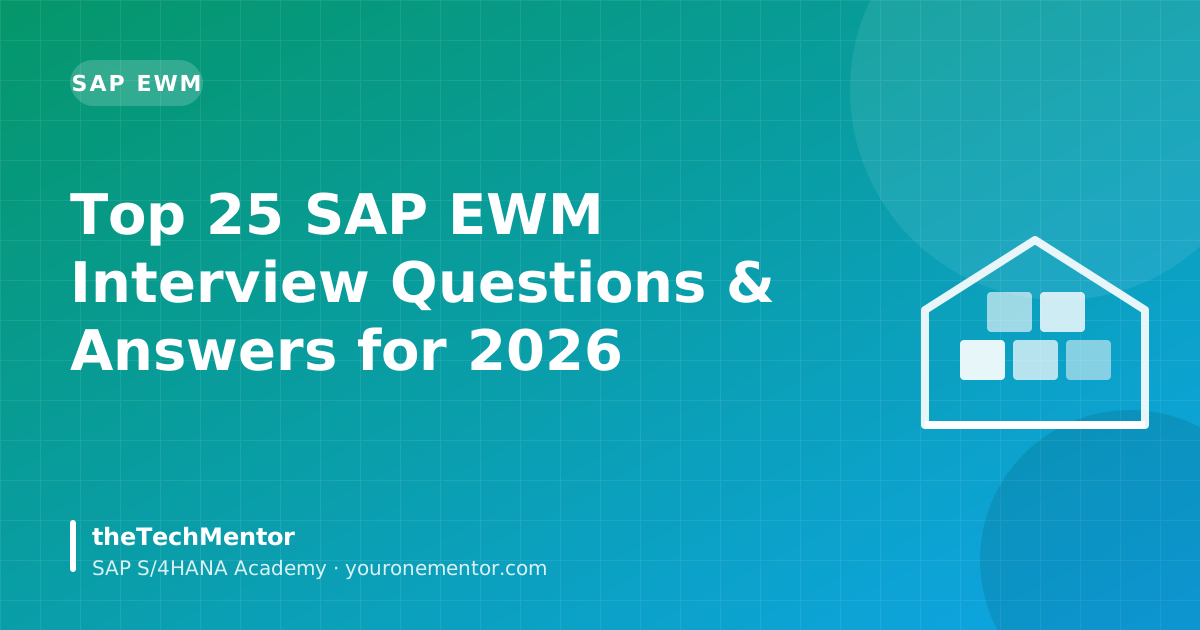
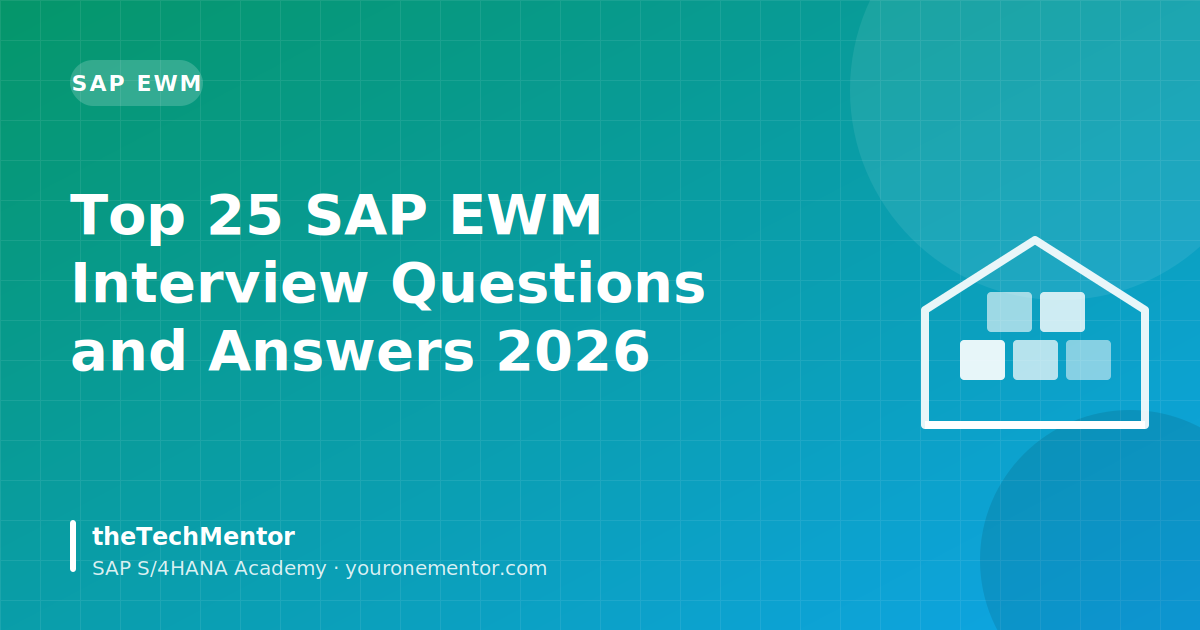
feat(blog): automated article (refresh)

diff --git a/blog/top-25-sap-ewm-interview-questions-2026.html b/blog/top-25-sap-ewm-interview-questions-2026.html
@@ -3,95 +3,95 @@
 <head>
   <meta charset="UTF-8" />
   <meta name="viewport" content="width=device-width, initial-scale=1.0" />
-  <title>Top 25 SAP EWM Interview Questions &amp; Answers for 2026</title>
-  <meta name="description" content="Prepare for senior SAP EWM consultant interviews with 25 model questions on Storage Types, Wave Management, POSC, and LOSC." />
+  <title>Top 25 SAP EWM Interview Questions and Answers 2026</title>
+  <meta name="description" content="Top 25 SAP EWM interview questions with model answers on storage types, POSC/LOSC, waves, queues and troubleshooting. Prepare for consultant rounds." />
   <link rel="canonical" href="https://youronementor.com/blog/top-25-sap-ewm-interview-questions-2026.html" />
-  <meta property="og:title" content="Top 25 SAP EWM Interview Questions & Answers for 2026" />
-  <meta property="og:description" content="Prepare for senior SAP EWM consultant interviews with 25 model questions on Storage Types, Wave Management, POSC, and LOSC." />
+  <meta name="robots" content="index,follow,max-image-preview:large" />
+  <meta property="og:type" content="article" />
+  <meta property="og:url" content="https://youronementor.com/blog/top-25-sap-ewm-interview-questions-2026.html" />
+  <meta property="og:title" content="Top 25 SAP EWM Interview Questions &amp; Answers for 2026 (With Model Answers)" />
+  <meta property="og:description" content="Top 25 SAP EWM interview questions with model answers on storage types, POSC/LOSC, waves, queues and troubleshooting. Prepare for consultant rounds." />
   <meta property="og:image" content="https://youronementor.com/blog/covers/top-25-sap-ewm-interview-questions-2026.png" />
+  <meta property="og:site_name" content="theTechMentor" />
+  <meta name="twitter:card" content="summary_large_image" />
+  <meta property="article:published_time" content="2026-11-08" />
+  <meta property="article:modified_time" content="2026-11-08" />
   <link rel="preconnect" href="https://fonts.googleapis.com" />
   <link rel="preconnect" href="https://fonts.gstatic.com" crossorigin />
-  <link rel="stylesheet" href="https://fonts.googleapis.com/css2?family=Inter:wght@400;500;600;700;800&family=Space+Grotesk:wght@500;600;700&display=swap" />
-  <link rel="stylesheet" href="../styles.css" />
-  <link rel="stylesheet" href="blog.css" />
-  <script src="https://checkout.razorpay.com/v1/checkout.js"></script>
-  <script type="application/ld+json">[{"@context": "https://schema.org", "@type": "Article", "headline": "Top 25 SAP EWM Interview Questions & Answers for 2026", "description": "Prepare for senior SAP EWM consultant interviews with 25 model questions on Storage Types, Wave Management, POSC, and LOSC.", "image": "https://youronementor.com/images/og-cover.png", "author": {"@type": "Person", "name": "Anshuman Behuria", "url": "https://www.linkedin.com/in/anshuman-behuria-946860130"}, "publisher": {"@type": "Organization", "name": "theTechMentor", "url": "https://youronementor.com"}, "mainEntityOfPage": "https://youronementor.com/blog/top-25-sap-ewm-interview-questions-2026.html"}, {"@context": "https://schema.org", "@type": "BreadcrumbList", "itemListElement": [{"@type": "ListItem", "position": 1, "name": "Home", "item": "https://youronementor.com/"}, {"@type": "ListItem", "position": 2, "name": "Blog", "item": "https://youronementor.com/blog/"}, {"@type": "ListItem", "position": 3, "name": "Top 25 SAP EWM Interview Questions & Answers for 2026", "item": "https://youronementor.com/blog/top-25-sap-ewm-interview-questions-2026.html"}]}]</script>
-  <meta name="robots" content="noindex,follow" />
-  <link rel="stylesheet" href="ai-article.css" />
-  <link rel="stylesheet" href="../theme-2030.css?v=1" />
+  <link rel="stylesheet" href="https://fonts.googleapis.com/css2?family=Inter:wght@400;500;600;700&family=Plus+Jakarta+Sans:wght@600;700;800&display=swap" />
+  <link rel="icon" href="../images/logo-mark.svg" type="image/svg+xml" />
+  <link rel="stylesheet" href="../site.css?v=1" />
+  <link rel="stylesheet" href="ai-article.css?v=3" />
+  <script type="application/ld+json">[{"@context": "https://schema.org", "@type": "Article", "headline": "Top 25 SAP EWM Interview Questions & Answers for 2026 (With Model Answers)", "description": "Top 25 SAP EWM interview questions with model answers on storage types, POSC/LOSC, waves, queues and troubleshooting. Prepare for consultant rounds.", "image": "https://youronementor.com/blog/covers/top-25-sap-ewm-interview-questions-2026.png", "datePublished": "2026-11-08", "dateModified": "2026-11-08", "author": {"@type": "Person", "name": "Anshuman Behuria", "url": "https://www.linkedin.com/in/anshuman-behuria-946860130"}, "publisher": {"@type": "Organization", "name": "theTechMentor", "url": "https://youronementor.com"}, "mainEntityOfPage": "https://youronementor.com/blog/top-25-sap-ewm-interview-questions-2026.html", "wordCount": 2049}, {"@context": "https://schema.org", "@type": "BreadcrumbList", "itemListElement": [{"@type": "ListItem", "position": 1, "name": "Home", "item": "https://youronementor.com/"}, {"@type": "ListItem", "position": 2, "name": "Blog", "item": "https://youronementor.com/blog/"}, {"@type": "ListItem", "position": 3, "name": "Top 25 SAP EWM Interview Questions & Answers for 2026 (With Model Answers)", "item": "https://youronementor.com/blog/top-25-sap-ewm-interview-questions-2026.html"}]}, {"@context": "https://schema.org", "@type": "FAQPage", "mainEntity": [{"@type": "Question", "name": "Is SAP EWM hard to crack in interviews?", "acceptedAnswer": {"@type": "Answer", "text": "It is demanding because interviewers test scenarios, not definitions. If you can explain the inbound and outbound document flow and troubleshoot a missing task, you are ahead of most candidates."}}, {"@type": "Question", "name": "Do I need SAP MM knowledge before EWM?", "acceptedAnswer": {"@type": "Answer", "text": "Yes, a working knowledge of material master, goods movements and delivery processing helps a lot, since EWM integrates with them. See the MM roadmap article for a structured start."}}, {"@type": "Question", "name": "Which T-codes should I memorise for EWM interviews?", "acceptedAnswer": {"@type": "Answer", "text": "Focus on /SCWM/MON (monitor), /SCWM/WAVE, /SCWM/MAT1, /SCWM/LS01, /SCWM/RSRC and /SCWM/PRDI-style document displays you have actually used. Understanding purpose matters more than memorising."}}, {"@type": "Question", "name": "Is embedded EWM more common than decentralized in 2026?", "acceptedAnswer": {"@type": "Answer", "text": "For new S/4HANA projects, embedded EWM is the usual starting choice because of simpler landscape and licensing considerations. Decentralized is still used for specific high-volume or independence requirements."}}, {"@type": "Question", "name": "How long does it take to prepare for an EWM interview?", "acceptedAnswer": {"@type": "Answer", "text": "With prior SAP experience, a few weeks of focused hands-on practice. Freshers usually need a few months to build both the concepts and sandbox practice."}}]}]</script>
   <script src="../site-config.js"></script>
   <script src="../tracking.js"></script>
-  <link rel="icon" href="../images/logo-mark.svg" type="image/svg+xml" />
 </head>
-<body>
+<body class="ai-page" style="--accent:#059669;--accent2:#0ea5e9;--accent-soft:#d1fae5;">
   <div class="reading-progress" id="reading-progress-bar"></div>
-
   <header class="header">
-    <nav class="nav container">
-      <a href="../index.html" class="logo">
-        <img class="logo-img" src="../images/logo-mark.svg" width="32" height="32" alt="" />
-        <span class="logo-text">the<b>Tech</b>Mentor</span>
-      </a>
+    <nav class="nav wrap" aria-label="Main">
+      <a href="../index.html" class="brand" aria-label="theTechMentor home"><img src="../images/logo-mark.svg" alt="" width="36" height="36" /><span>the<b>Tech</b>Mentor</span></a>
+      <button class="nav-toggle" aria-label="Open menu" aria-expanded="false"><span></span><span></span><span></span></button>
       <ul class="nav-links">
         <li><a href="../index.html#courses">Courses</a></li>
         <li><a href="../index.html#paths">Career paths</a></li>
-        <li><a href="index.html" style="color:var(--blog-accent-light); font-weight:600;">Blog Hub</a></li>
-        <li><a href="../index.html#advisor">Free counselling</a></li>
-        <li><a href="../index.html#courses" class="btn btn-sm">Explore courses</a></li>
+        <li><a href="index.html">Blog</a></li>
+        <li><a href="../index.html#advisor" class="btn btn-ghost btn-sm">Free counselling</a></li>
+        <li><a href="../index.html#courses" class="btn btn-primary btn-sm">Explore courses</a></li>
       </ul>
     </nav>
   </header>
 
-  <main class="blog-article-wrap">
-    <div class="blog-breadcrumb">
+  <main class="blog-article-wrap ai-wrap">
+    <nav class="blog-breadcrumb" aria-label="Breadcrumb">
       <a href="../index.html">Home</a> &gt; <a href="index.html">Blog</a> &gt; <span>Interview prep</span>
-    </div>
+    </nav>
 
-    <header class="blog-header">
-      <span class="sp-badge sp-badge--teal" style="margin-bottom:1rem; display:inline-block;">Interview Prep 2026</span>
-      <h1 class="blog-title">Top 25 SAP EWM Interview Questions & Answers for 2026</h1>
-      
+    <header class="ai-hero">
+      <span class="ai-pill">SAP EWM INTERVIEW PREP</span>
+      <h1 class="blog-title">Top 25 SAP EWM Interview Questions &amp; Answers for 2026 (With Model Answers)</h1>
+      <p class="ai-dek">25 SAP EWM interview questions with model answers: warehouse structure, POSC vs LOSC, waves, queues, RF and real troubleshooting scenarios.</p>
       <div class="blog-meta">
         <div class="author-chip">
-          <img class="author-photo" src="../images/anshuman-behuria-96.jpg" alt="Anshuman Behuria" width="40" height="40" style="width:40px;height:40px;border-radius:50%;object-fit:cover" />
-          <div class="author-info">
-            <strong>Anshuman Behuria</strong>
-            <span>Lead SAP S/4HANA Trainer</span>
-          </div>
+          <img class="author-photo" src="../images/anshuman-behuria-96.jpg" alt="Anshuman Behuria" width="40" height="40" />
+          <div class="author-info"><strong>Anshuman Behuria</strong><span>Lead SAP Mentor · theTechMentor</span></div>
         </div>
-        <span>•</span>
-        <span>Aug 28, 2026</span>
-        <span>•</span>
-        <span>⏱ 15 min read</span>
+        <span>Updated <time datetime="2026-11-08">Nov 08, 2026</time></span>
       </div>
+      <img class="ai-cover" src="covers/top-25-sap-ewm-interview-questions-2026.svg" width="1200" height="630" alt="Top 25 SAP EWM Interview Questions &amp; Answers for 2026 (With Model Answers)" />
     </header>
 
-    <article class="article-content">
+    <article class="article-content ai-article">
+      <div class="glance"><div><span>Module</span><strong>SAP EWM</strong></div><div><span>Read time</span><strong>9 min</strong></div><div><span>Level</span><strong>Intermediate to Consultant</strong></div><div class="glance-codes"><span>T-codes covered</span><p><code>/SCWM/MAT1</code><code>/SCWM/ORDIM_O</code><code>/SCWM/ORDIM_C</code><code>/SCWM/LS01</code><code>/SCWM/LS10</code><code>/SCWM/LS02</code><code>/SCWM/LS11</code><code>MM01</code></p></div></div>
 
-      <!-- TARGET METADATA GRID -->
-      <div style="background: #080d14; border: 1px solid #1e293b; border-radius: 10px; padding: 1.5rem; margin-bottom: 2rem; display: grid; grid-template-columns: 1fr 1fr; gap: 1.25rem;">
-        <div style="border-left: 3px solid #0284c7; padding-left: 0.85rem;">
-          <span style="color: #94a3b8; font-size: 0.8rem; font-weight: 700; text-transform: uppercase; display: block;">Target Role:</span>
-          <strong style="color: #fff; font-size: 0.95rem;">SAP EWM Consultant / Senior Warehouse Analyst</strong>
-        </div>
-      </div>
+      <div class="ai-intro"><p>Most candidates don't fail SAP EWM interviews because they miss definitions. They fail because they can't connect the steps: how a delivery becomes a warehouse request, then a warehouse task, then a goods issue. Interviewers probe that chain relentlessly.</p><p>This guide gives you the <strong>top 25 SAP EWM interview questions</strong> with model answers, grouped by topic: architecture, warehouse structure, process and storage control, execution, and troubleshooting. The answers use transaction codes, tables and sample values, the way a working consultant would speak. Use them to shape your own answers rather than to memorise.</p></div>
 
-      <p style="font-size: 1.05rem; line-height: 1.75; color: #cbd5e1; margin-bottom: 2rem;">
-        Mastering S/4HANA supply chain architecture requires deep functional knowledge and practical configuration experience. This technical guide breaks down <strong>Top 25 SAP EWM Interview Questions & Answers for 2026</strong> with actionable step-by-step blueprints.
-      </p>
+      <div class="ai-box ai-takeaways"><div class="box-label">⚡ Key takeaways</div><ul><li>Always explain the chain: delivery, warehouse request, wave, warehouse order, warehouse task, confirmation.</li><li>Know POSC (process steps) versus LOSC (physical layout) and when to combine them.</li><li>Be ready to name real T-codes such as /SCWM/MON, /SCWM/WAVE, /SCWM/MAT1 and /SCWM/LS01.</li><li>Troubleshoot in a fixed order: master data, strategy, queue and resource, then integration.</li><li>State whether your example is embedded or decentralized EWM.</li></ul></div>
 
-      <h2 style="color: #fff; font-size: 1.5rem; font-weight: 700; margin: 2rem 0 1rem 0; padding-bottom: 0.5rem; border-bottom: 1px solid #1e293b;">1. Warehouse Structure, Storage Types, Bins, and Activity Areas</h2><p style="color: #cbd5e1; font-size: 1.05rem; line-height: 1.7;">Deep dive into key configuration parameters, best practices, and real-world project insights for Core Architecture.</p><h2 style="color: #fff; font-size: 1.5rem; font-weight: 700; margin: 2rem 0 1rem 0; padding-bottom: 0.5rem; border-bottom: 1px solid #1e293b;">2. Process-Oriented (POSC) vs Layout-Oriented (LOSC) Storage Control</h2><p style="color: #cbd5e1; font-size: 1.05rem; line-height: 1.7;">Deep dive into key configuration parameters, best practices, and real-world project insights for Process Control.</p><h2 style="color: #fff; font-size: 1.5rem; font-weight: 700; margin: 2rem 0 1rem 0; padding-bottom: 0.5rem; border-bottom: 1px solid #1e293b;">3. Wave Management, Picking Strategies, and Resource Management</h2><p style="color: #cbd5e1; font-size: 1.05rem; line-height: 1.7;">Deep dive into key configuration parameters, best practices, and real-world project insights for Execution Engine.</p><h2 style="color: #fff; font-size: 1.5rem; font-weight: 700; margin: 2rem 0 1rem 0; padding-bottom: 0.5rem; border-bottom: 1px solid #1e293b;">4. Real-World Troubleshooting Questions asked by Top MNC Intervewers</h2><p style="color: #cbd5e1; font-size: 1.05rem; line-height: 1.7;">Deep dive into key configuration parameters, best practices, and real-world project insights for Scenario Questions.</p>
+      <div class="flow"><div class="flow-label">Process at a glance</div><ol class="flow-steps"><li><span class="flow-n">1</span><strong>Delivery / Notification</strong><span>ERP delivery creates the EWM warehouse request.</span></li><li><span class="flow-n">2</span><strong>Wave creation: /SCWM/WAVE</strong><span>Items are grouped and released as a wave.</span></li><li><span class="flow-n">3</span><strong>Warehouse Order creation</strong><span>WOCR bundles warehouse tasks into work packages.</span></li><li><span class="flow-n">4</span><strong>Queue and resource assignment</strong><span>Resources pick up orders via RF.</span></li><li><span class="flow-n">5</span><strong>Confirmation</strong><span>Tasks are confirmed and stock moves between bins.</span></li><li><span class="flow-n">6</span><strong>Goods issue / receipt posting</strong><span>Posting updates stock and the ERP delivery.</span></li></ol></div>
 
-      <!-- TIP CALLOUT -->
-      <div style="background: #0c1929; border-left: 4px solid #0284c7; padding: 1.25rem; border-radius: 6px; margin: 1.75rem 0;">
-        <strong style="color: #38bdf8; font-size: 1.05rem; display: block; margin-bottom: 0.3rem;">💡 CONSULTANT BEST PRACTICE</strong>
-        <p style="color: #cbd5e1; font-size: 0.95rem; margin: 0;">
-          Always validate your configuration in a sandbox environment before transporting customizing requests to Quality/Production.
-        </p>
-      </div>
+      <nav class="ai-box ai-toc" aria-label="Contents"><div class="box-label">📑 In this guide</div><ol><li><a href="#sec-1"><span>01</span>How SAP EWM interviews are structured</a></li><li><a href="#sec-2"><span>02</span>Architecture and basics (Questions 1-5)</a></li><li><a href="#sec-3"><span>03</span>Warehouse structure and master data (Questions 6-10)</a></li><li><a href="#sec-4"><span>04</span>Process and storage control (Questions 11-15)</a></li><li><a href="#sec-5"><span>05</span>Execution: waves, queues and resources (Questions 16-20)</a></li><li><a href="#sec-6"><span>06</span>Scenario and troubleshooting questions (Questions 21-25)</a></li><li><a href="#sec-7"><span>07</span>Common mistakes candidates make</a></li><li><a href="#faqs"><span>?</span>Frequently asked questions</a></li></ol></nav>
 
-      <!-- LEAD OPT-IN -->
+      <h2 id="sec-1"><span class="h2-n">01</span>How SAP EWM interviews are structured</h2>
+<p>Expect three rounds. The first is a screening on basics: what EWM is, how it differs from WM, embedded versus decentralized. The second is a configuration deep-dive on storage types, activity areas, warehouse process types and strategies. The third is scenario-based: something broke, find the cause.</p><table><thead><tr><th>Round</th><th>What is tested</th><th>How to prepare</th></tr></thead><tbody><tr><td>Screening</td><td>Terminology, architecture, WM vs EWM</td><td>Draw the inbound and outbound document flow from memory</td></tr><tr><td>Configuration</td><td>Warehouse structure, process types, strategies</td><td>Know the SPRO path under <code>SCM Extended Warehouse Management</code> and the master data behind it</td></tr><tr><td>Scenario</td><td>Stuck queues, missing stock, wrong bin determination</td><td>Practise on an S/4HANA sandbox and break things deliberately</td></tr></tbody></table><aside class="tip">Answer every question in three parts: definition, how it is configured or used (with a T-code), and one project example. That structure alone separates you from most candidates.</aside>
+<h2 id="sec-2"><span class="h2-n">02</span>Architecture and basics (Questions 1-5)</h2>
+<h3>Q1. What is SAP EWM and how is it different from classic WM?</h3><p>EWM is the advanced warehouse application that handles inbound, outbound, internal movements, physical inventory, resource management, labour and yard processes. Classic WM (Warehouse Management in ERP) is essentially a bin-level stock tracker driven by transfer orders. EWM adds warehouse tasks, queues, wave picking, handling units as first-class objects, and flexible process and storage control.</p><h3>Q2. Embedded vs decentralized EWM?</h3><p>Embedded EWM runs inside the S/4HANA system on the same database, using the core interface (CIF-free, with direct integration). Decentralized EWM runs on a separate system connected to S/4HANA or ECC through the Core Interface and qRFC. Embedded is simpler and the common default for new S/4HANA projects; decentralized suits very high-volume or independent-release-cycle warehouses. See the <a href="s4hana-2026-embedded-ewm-vs-decentral-ewm-matrix.html">embedded vs decentral decision matrix</a> and the <a href="embedded-ewm-s4hana-setup-walkthrough.html">embedded EWM setup walkthrough</a>.</p><aside class="interview">A frequent follow-up: "What differs in master data?" In decentralized, you distribute material, plant and business partner data via CIF/BDoc; in embedded, you use the integration with business partner and product master directly, with warehouse-specific data in <code>/SCWM/MAT1</code>.</aside><h3>Q3. What are the basic inbound and outbound document types?</h3><p>Inbound: Inbound Delivery in ERP, which creates an Inbound Delivery Notification and then a Warehouse Request and Warehouse Task. Outbound: Outbound Delivery Order, then Warehouse Request, wave, Warehouse Order and Warehouse Task, then posting goods issue. Warehouse Orders group tasks for execution by a worker.</p><h3>Q4. What is a Warehouse Task vs a Warehouse Order?</h3><p>A Warehouse Task (WT) is the smallest move instruction: product, quantity, source bin, destination bin. A Warehouse Order (WO) bundles multiple WTs into a work package for one resource or worker, built using Warehouse Order Creation Rules (WOCR). Tables: <code>/SCWM/ORDIM_O</code> (open WTs), <code>/SCWM/ORDIM_C</code> (confirmed WTs).</p><h3>Q5. What is a Handling Unit and why is it central?</h3><p>A Handling Unit (HU) is a physical unit (pallet, carton) with a unique identifier and packaging material. In EWM, stock is usually managed at HU level, and EWM can use HU-managed or non-HU bins depending on storage type settings. Many processes, including pick-HU and storage control, depend on HU data.
+<h2 id="sec-3"><span class="h2-n">03</span>Warehouse structure and master data (Questions 6-10)</h2>
+<h3>Q6. Explain the EWM warehouse structure.</h3><p>Hierarchy: Warehouse Number, Storage Type, Storage Section, Storage Bin. Separately, bins are grouped into Activity Areas for picking, putaway, inventory and labour. Each storage type has a role (high rack, pick area, staging area, work centre).</p><h3>Q7. How do you create storage bins?</h3><p>Use <code>/SCWM/LS01</code> for single bins and <code>/SCWM/LS10</code> to maintain them. Mass creation: <code>/SCWM/LS01</code> with bin structure, or <code>/SCWM/LS02</code> to change. Bin type and section drive capacity checks.</p><h3>Q8. What is an Activity Area and why use it?</h3><p>Activity Areas group bins for a specific activity so that the system can sort tasks and define picking paths. Define them in SPRO under <code>Extended Warehouse Management &gt; Master Data &gt; Activity Area &gt; Define Activity Area</code>, then assign bins with <code>/SCWM/LS11</code> or via bin maintenance. For labour, they feed work sequences and sort criteria.</p><h3>Q9. Where is warehouse product master maintained?</h3><p>Use <code>/SCWM/MAT1</code>. It holds warehouse-specific data such as putaway control indicator, storage type search sequence, unit of measure, and capacity data. The product comes from the S/4HANA material master (<code>MM01</code>).</p><aside class="warning">If a product is not created in the warehouse view, putaway fails with an error that the product is not maintained for the warehouse. Always check the warehouse data first.</aside><h3>Q10. What are the main bin determination strategies?</h3><p>Putaway strategies include fixed bin, open storage, addition to existing stock, and bulk storage. Picking can use FIFO, LIFO, partial quantity, FEFO and stock removal rules. Strategies are set in the storage type and condition-based determination uses Condition Records via <code>/SCWM/PUTSTRAT</code> style configuration. Slotting is covered in <a href="sap-ewm-slotting-rearrangement-optimization.html">this slotting and rearrangement guide</a>.
+<h2 id="sec-4"><span class="h2-n">04</span>Process and storage control (Questions 11-15)</h2>
+<h3>Q11. What is Warehouse Process Type (WPT)?</h3><p>The WPT defines how a type of movement behaves: whether it creates a confirmation, whether it requires a pick-HU, which storage type is the default, and which activity it represents. It is determined in the warehouse request via Warehouse Process Type determination, based on document type, item type and other criteria.</p><h3>Q12. POSC vs LOSC: what is the difference?</h3><p>Process-oriented Storage Control (POSC) models a whole process, such as goods receipt with unpacking, quality inspection and putaway, as a sequence of steps in a Storage Process. Layout-oriented Storage Control (LOSC) models the physical layout, such as moving from receiving area via a conveyor to a high rack, as predefined routes between storage types. POSC is external, process-driven; LOSC is internal, layout-driven. They can be combined. Full blueprint: <a href="sap-ewm-posc-losc-storage-control-deep-dive.html">POSC vs LOSC storage control deep dive</a>.</p><table><thead><tr><th>Aspect</th><th>POSC</th><th>LOSC</th></tr></thead><tbody><tr><td>Driver</td><td>Business process steps</td><td>Physical layout / routing</td></tr><tr><td>Configuration</td><td>Storage Process, determined by WPT</td><td>Layout-oriented storage control indicator and intermediate storage types</td></tr><tr><td>Typical use</td><td>Unpack, QC, value-added services, putaway</td><td>Conveyor, pick point, ID point, lift</td></tr><tr><td>Determined by</td><td>Process-oriented indicator on WPT</td><td>Warehouse storage control setting per storage type pair</td></tr></tbody></table><aside class="interview">Interviewers love: "Customer wants QC after unloading and then a pallet moved through an ID point to AS/RS. Which do you use?" Answer: POSC for the QC step, LOSC for the ID-point-to-AS/RS route, combined.</aside><h3>Q13. What are Pick Points and ID Points?</h3><p>A Pick Point is a staging location where a picker or a conveyor delivers goods before the next step. An ID Point is where the HU is identified (scanned) before a putaway. Both are modelled through storage control and bins at the intermediate location.</p><h3>Q14. What is Putaway Control Indicator vs Storage Type Search Sequence?</h3><p>The Putaway Control Indicator (set on the product) selects the storage type search sequence, which lists storage types in the order EWM tries to find a destination bin. Both are in the product master and configuration under <code>Goods Receipt Process &gt; Strategies</code>.</p><h3>Q15. How does EWM handle quality inspection in the warehouse?</h3><p>EWM supports Quality Inspection Engine integration through the Quality Management system: an inspection document is created on goods receipt, stock sits in a Q-type stock category or a QC storage type, and usage decision triggers a posting change and the next putaway step. Details vary by release and by embedded vs decentral setups.
+<h2 id="sec-5"><span class="h2-n">05</span>Execution: waves, queues and resources (Questions 16-20)</h2>
+<h3>Q16. What is wave management?</h3><p>A wave groups warehouse request items for release as a single batch of picking work. You create and release waves via <code>/SCWM/WAVE</code>. Waves are defined through Wave Templates, which set wave category, capacity, cut-off times and release rules. Deep dives: <a href="ewm-wave-management-explained.html">EWM wave management explained</a> and <a href="sap-ewm-wave-management-wocr-configuration.html">wave and WOCR configuration</a>.</p><h3>Q17. What is a Warehouse Order Creation Rule (WOCR)?</h3><p>WOCR defines how warehouse tasks are grouped into warehouse orders. Criteria include maximum number of items, maximum weight or volume, activity area, queue, and sort. The WOCR is assigned through the Warehouse Order Creation Rule determination with filter conditions.</p><h3>Q18. What is a queue and how is it used?</h3><p>A queue is a logical group of warehouse orders that a resource is allowed to process. Queue determination uses storage type, activity area and activity. Resources log on to queues in RF or via <code>/SCWM/RSRC</code>, and the system assigns WOs only from those queues.</p><aside class="tip">When a task sits unassigned, check the queue first. A mismatch between queue and resource-group assignment is the number-one reason a worker sees nothing on their RF device.</aside><h3>Q19. What is Resource Management?</h3><p>Resource Management lets you maintain resource types (forklift, picker), resource groups and resources, and the queue types they can handle. It supports RF sign-on, work-order assignment, and monitoring of workload.</p><h3>Q20. What is the Warehouse Monitor?</h3><p><code>/SCWM/MON</code> is the central reporting and analysis tool in EWM. Nodes include Stock and Bin, Documents, Resources, Queues, Work Orders and Exceptions. You use it for troubleshooting and to display documents, stock by HU, and stuck processes.
+<h2 id="sec-6"><span class="h2-n">06</span>Scenario and troubleshooting questions (Questions 21-25)</h2>
+<h3>Q21. Goods receipt is posted but putaway task was not created. Why?</h3><p>Check these in order: (1) Is the delivery in a status that triggers automatic WT creation? (2) Does the WPT have the automatic creation indicator? (3) Is there a valid storage type search sequence on the product? (4) Is the product maintained for the warehouse in <code>/SCWM/MAT1</code>? Use the application log with <code>/SCWM/ERP_LOG</code> or <code>SLG1</code> to read the message.</p><h3>Q22. System cannot determine a destination bin. What do you check?</h3><p>Check the putaway control indicator, the storage type search sequence, whether the storage type is active, whether bins are blocked for putaway, and capacity checks on the bin type.</p><table><thead><tr><th>Symptom</th><th>Likely cause</th><th>Where to check</th></tr></thead><tbody><tr><td>No destination bin</td><td>Search sequence missing or bins blocked</td><td>Product master, <code>/SCWM/LS01</code> blocking indicators</td></tr><tr><td>Task not assigned to worker</td><td>Queue or resource mismatch</td><td><code>/SCWM/RSRC</code>, queue config</td></tr><tr><td>Wave does not release</td><td>Wave template criteria not met</td><td><code>/SCWM/WAVE</code>, template</td></tr><tr><td>Stock mismatch ERP vs EWM</td><td>Posting change or inbound/outbound not complete</td><td><code>/SCWM/MON</code>, reconciliation reports</td></tr><tr><td>Delivery not in EWM</td><td>Distribution or integration error</td><td>Queues in <code>SMQ1</code>/<code>SMQ2</code> for decentralized, application log for embedded</td></tr></tbody></table><h3>Q23. Stock differs between ERP and EWM. How do you reconcile?</h3><p>In the S/4HANA embedded model, run the stock comparison report via the reconciliation transactions provided by SAP, and review open documents. Typical causes are incomplete postings, manual stock changes, or failures in goods movement posting. Resolve by completing or cancelling the open EWM document and re-posting.</p><aside class="warning">Never fix stock mismatch by directly changing database tables. Always use standard posting changes or physical inventory adjustments, and document the reason.</aside><h3>Q24. How do you handle a stuck inbound delivery?</h3><p>Open the delivery in the monitor, read the document status and log, correct the master data or configuration, and reprocess. If the issue is integration (decentralized), process the stuck qRFC queue after fixing the root cause.</p><h3>Q25. How would you design a pick process for a high-volume e-commerce warehouse?</h3><p>Use wave picking with wave templates by carrier cut-off, pick by order or by consolidation group, a pick point with LOSC if there is a conveyor, and WOCR limits tuned to cart capacity. Add slotting to place fast-movers in golden zone bins, and use RF for execution. Also mention AI-driven support in newer releases, see <a href="autonomous-ai-sap-mm-ewm-2026-guide.html">autonomous AI in MM &amp; EWM</a>.</p>
+<h2 id="sec-7"><span class="h2-n">07</span>Common mistakes candidates make</h2>
+<ul><li><strong>Confusing WM and EWM terms.</strong> Saying "transfer order" instead of warehouse task signals classic-WM experience only.</li><li><strong>Quoting T-codes from memory incorrectly.</strong> If unsure, say you would find it in the SAP Easy Access menu under Extended Warehouse Management rather than guessing.</li><li><strong>Ignoring embedded vs decentral differences.</strong> Always state which landscape your example comes from.</li><li><strong>Skipping the why.</strong> Explaining that WOCR exists to control worker workload is worth more than reciting its fields.</li><li><strong>No hands-on story.</strong> Even a sandbox exercise counts when described with specific values, such as a bin type with a 1,000 kg capacity.</li></ul><aside class="note">Release details differ. Check the latest changes in <a href="sap-s4hana-2025-release-mm-ewm-changes.html">the S/4HANA 2025 release notes summary</a> before claiming a feature is available, and know your system's release.</aside><p>If you are deciding between tracks, read <a href="sap-mm-vs-ewm-career-guide.html">SAP MM vs EWM</a>; for the procurement side of interviews see <a href="top-30-sap-mm-interview-questions-2026.html">Top 30 SAP MM interview questions</a>.</p>
+
+
+      
+
       <div class="ai-optin" id="lead-optin">
+        <div class="optin-icon">🎁</div>
         <strong>Free: SAP MM &amp; EWM video course + interview kit</strong>
         <p>Get the 40+ lesson playlist, the most-asked interview questions and our 90-day roadmap on WhatsApp.</p>
         <form class="ttm-optin-form" data-source="blog:top-25-sap-ewm-interview-questions-2026">
@@ -103,22 +103,36 @@
         <div class="ttm-optin-done" hidden></div>
       </div>
 
-      <!-- COURSE CTA CARD -->
-      <div class="blog-course-cta">
-        <span class="tier-badge" style="background:#f59e0b; color:#000; font-weight:700; padding:0.2rem 0.6rem; border-radius:4px; font-size:0.75rem; text-transform:uppercase;">Accelerate Your Career</span>
-        <h3>Master SAP MM &amp; EWM S/4HANA Live with Anshuman Behuria</h3>
-        <p>Get 24/7 server access, real project blueprints, and 1-on-1 interview preparation.</p>
+      <h2 id="faqs"><span class="h2-n">?</span>Frequently asked questions</h2>
+      <details class="ai-faq"><summary>Is SAP EWM hard to crack in interviews?</summary><p>It is demanding because interviewers test scenarios, not definitions. If you can explain the inbound and outbound document flow and troubleshoot a missing task, you are ahead of most candidates.</p></details><details class="ai-faq"><summary>Do I need SAP MM knowledge before EWM?</summary><p>Yes, a working knowledge of material master, goods movements and delivery processing helps a lot, since EWM integrates with them. See the MM roadmap article for a structured start.</p></details><details class="ai-faq"><summary>Which T-codes should I memorise for EWM interviews?</summary><p>Focus on /SCWM/MON (monitor), /SCWM/WAVE, /SCWM/MAT1, /SCWM/LS01, /SCWM/RSRC and /SCWM/PRDI-style document displays you have actually used. Understanding purpose matters more than memorising.</p></details><details class="ai-faq"><summary>Is embedded EWM more common than decentralized in 2026?</summary><p>For new S/4HANA projects, embedded EWM is the usual starting choice because of simpler landscape and licensing considerations. Decentralized is still used for specific high-volume or independence requirements.</p></details><details class="ai-faq"><summary>How long does it take to prepare for an EWM interview?</summary><p>With prior SAP experience, a few weeks of focused hands-on practice. Freshers usually need a few months to build both the concepts and sandbox practice.</p></details>
+
+      <div class="related"><div class="flow-label">Keep learning</div><div class="rel-grid"><a class="rel-card" href="top-30-sap-mm-interview-questions-2026.html"><img src="covers/top-30-sap-mm-interview-questions-2026.svg" alt="" loading="lazy" /><span>Top 30 SAP MM Interview Questions for 2026 — with Model Answers &amp; S/4HANA Scenarios</span></a><a class="rel-card" href="autonomous-ai-sap-mm-ewm-2026-guide.html"><img src="covers/autonomous-ai-sap-mm-ewm-2026-guide.svg" alt="" loading="lazy" /><span>Autonomous AI in SAP S/4HANA MM &amp; EWM: 2026 Guide</span></a><a class="rel-card" href="embedded-ewm-s4hana-setup-walkthrough.html"><img src="covers/embedded-ewm-s4hana-setup-walkthrough.svg" alt="" loading="lazy" /><span>Setting Up Embedded EWM in S/4HANA: A Step-by-Step Architecture Walkthrough</span></a></div></div>
+
+      <div class="blog-course-cta ai-cta">
+        <h3>Learn SAP hands-on with theTechMentor</h3>
+        <p>Live weekend batches or self-paced videos, with S/4HANA practice server access and interview preparation.</p>
         <div class="blog-cta-actions">
-          <button type="button" class="btn btn-primary razorpay-link" data-amount="10999" data-program="MM + EWM Self-Paced Bundle">
-            Get Complete Bundle — ₹10,999 ↗
-          </button>
-          <a href="../index.html#courses" class="btn btn-outline">View Batches</a>
+          <a href="../index.html#pricing" class="btn btn-primary">See programs &amp; fees</a>
+          <a href="../index.html#enroll" class="btn btn-outline">Book a free 15-min call</a>
         </div>
       </div>
-
     </article>
   </main>
-  <script src="../script.js?v=5" defer></script>
+
+  <footer class="footer">
+    <div class="wrap footer-grid">
+      <div class="footer-brand">
+        <a href="../index.html" class="brand brand-light"><img src="../images/logo-mark.svg" alt="" width="32" height="32" /><span>the<b>Tech</b>Mentor</span></a>
+        <p>Online SAP S/4HANA academy for logistics, procurement and warehouse careers.</p>
+      </div>
+      <div><h4>Courses</h4><ul><li><a href="../index.html#courses">All courses</a></li><li><a href="../index.html#paths">Career paths</a></li><li><a href="../index.html#formats">Live vs self-paced</a></li></ul></div>
+      <div><h4>Resources</h4><ul><li><a href="index.html">Blog</a></li><li><a href="../index.html#faq">FAQ</a></li><li><a href="../index.html#advisor">Free counselling</a></li></ul></div>
+      <div><h4>Contact</h4><ul><li><a href="mailto:info@youronementor.com">info@youronementor.com</a></li><li><a href="https://wa.me/917848942021" target="_blank" rel="noopener noreferrer">WhatsApp +91 78489 42021</a></li></ul></div>
+      <div><h4>Legal</h4><ul><li><a href="../privacy.html">Privacy</a></li><li><a href="../terms.html">Terms</a></li><li><a href="../refund.html">Refunds</a></li></ul></div>
+    </div>
+    <div class="wrap footer-bottom"><p>© 2026 theTechMentor. SAP and S/4HANA are trademarks of SAP SE; theTechMentor is not affiliated with SAP SE.</p></div>
+  </footer>
   <script src="blog-leads.js"></script>
+  <script>document.querySelector(".nav-toggle")?.addEventListener("click",function(){var l=document.querySelector(".nav-links");var o=l.classList.toggle("open");this.setAttribute("aria-expanded",String(o));});</script>
 </body>
 </html>

diff --git a/blog/index.html b/blog/index.html
@@ -249,7 +249,7 @@
           <div class="blog-thumb" style="background:#0b1220 url('covers/top-25-sap-ewm-interview-questions-2026.svg') center/cover no-repeat;"></div>
           <div class="blog-body">
             <span class="blog-post-badge blog-post-badge--blue">INTERVIEW PREP 2026</span>
-            <h2 class="blog-post-title">Top 25 SAP EWM Interview Questions &amp; Answers for 2026</h2>
+            <h2 class="blog-post-title">Top 25 SAP EWM Interview Questions &amp; Answers for 2026 (With Model Answers)</h2>
             <div class="blog-meta-line">By Anshuman Behuria &middot; 15 min read &middot; Aug 28, 2026</div>
             <a href="top-25-sap-ewm-interview-questions-2026.html" class="blog-read-link">Read article &amp; join discussion &rarr;</a>
           </div>

diff --git a/blog/custom-blogs.js b/blog/custom-blogs.js
@@ -248,7 +248,7 @@ window.TTM_CUSTOM_BLOGS = window.TTM_CUSTOM_BLOGS || [
   },
   {
     id: "post_1787892656280",
-    title: "Top 25 SAP EWM Interview Questions & Answers for 2026",
+    title: "Top 25 SAP EWM Interview Questions & Answers for 2026 (With Model Answers)",
     slug: "top-25-sap-ewm-interview-questions-2026",
     category: "Interview prep",
     readTime: "15 min read",

diff --git a/docs/SCREENSHOTS-TODO.md b/docs/SCREENSHOTS-TODO.md
@@ -51,3 +51,11 @@ Folder: `images/blog/sap-ewm-slotting-rearrangement-optimization/`
 - [ ] 05: /SCWM/SLOT: Initial selection screen for slotting run
 - [ ] 06: /SCWM/SLOT: Log output after executing a slotting run
 - [ ] 07: /SCWM/RARR: Screen for executing rearrangement
+
+## Top 25 SAP EWM Interview Questions & Answers for 2026 (With Model Answers)
+Folder: `images/blog/top-25-sap-ewm-interview-questions-2026/`
+- [ ] 01: /SCWM/MON: warehouse monitor showing the Queues and Work Orders nodes
+- [ ] 02: /SCWM/WAVE: wave template and a released wave
+- [ ] 03: /SCWM/MAT1: warehouse product master with putaway control indicator
+- [ ] 04: /SCWM/LS01: storage bin creation screen with storage type and section
+- [ ] 05: SPRO: Define Activity Area under EWM Master Data
